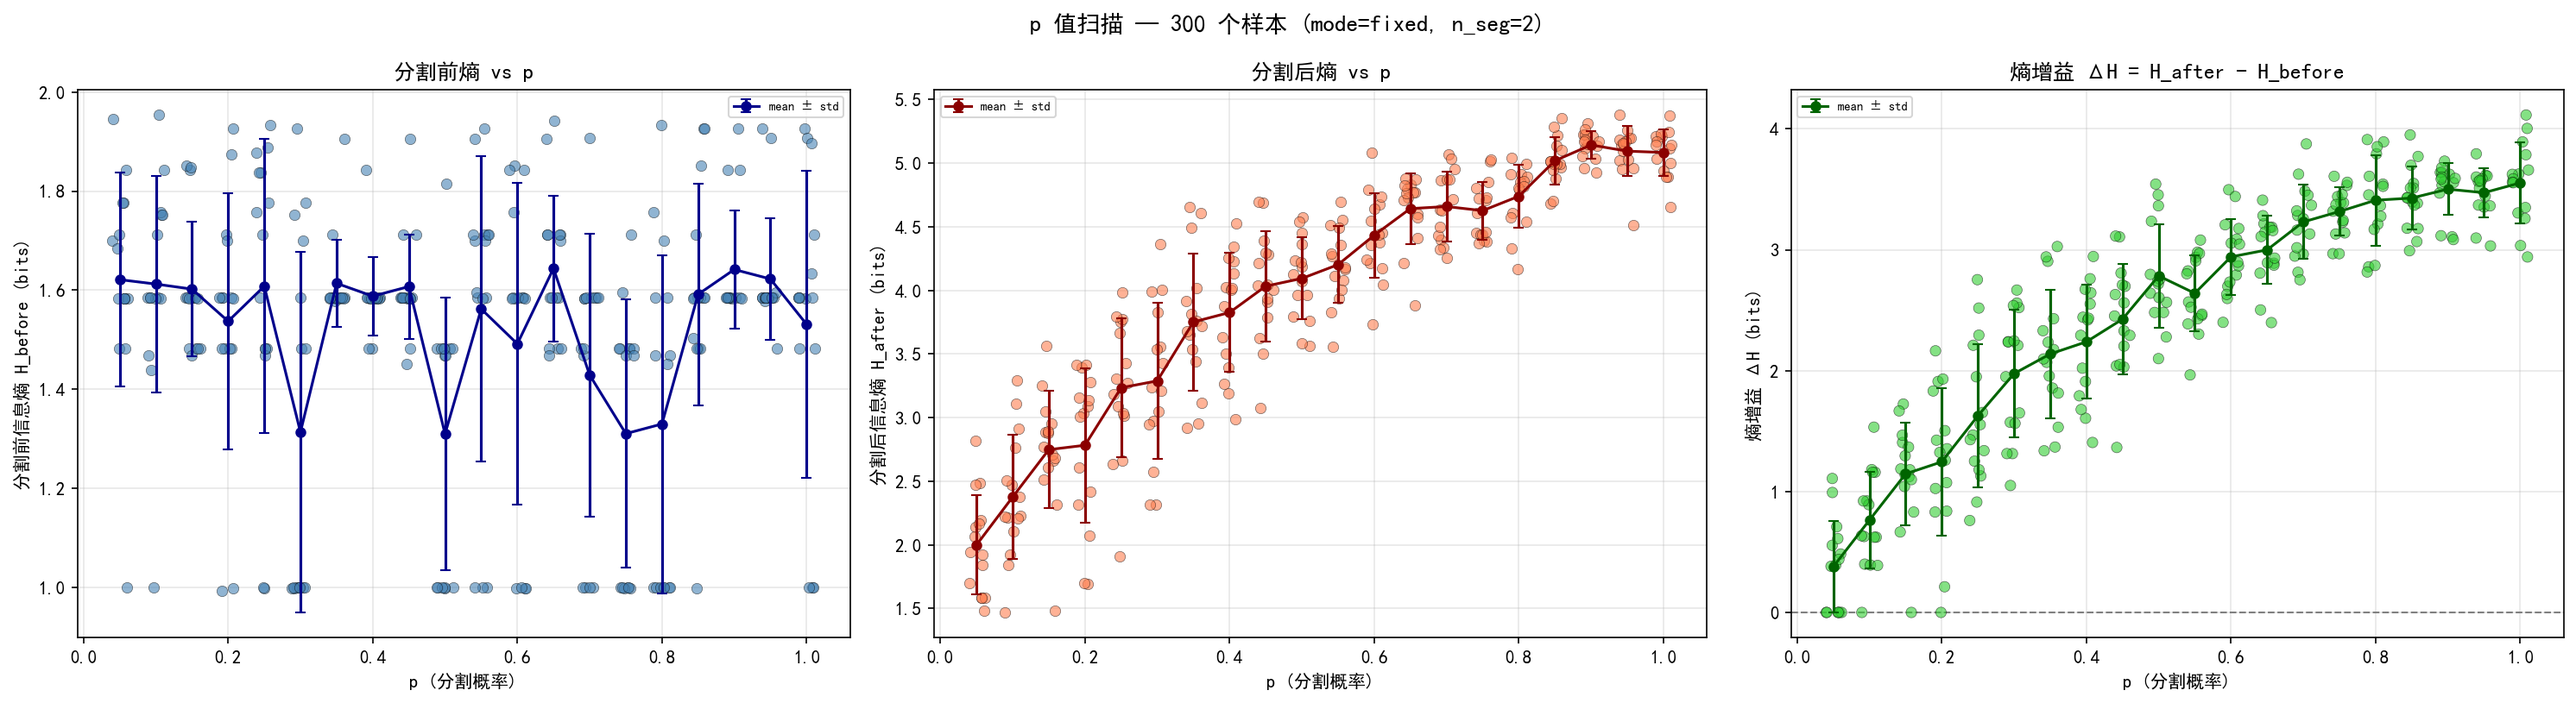
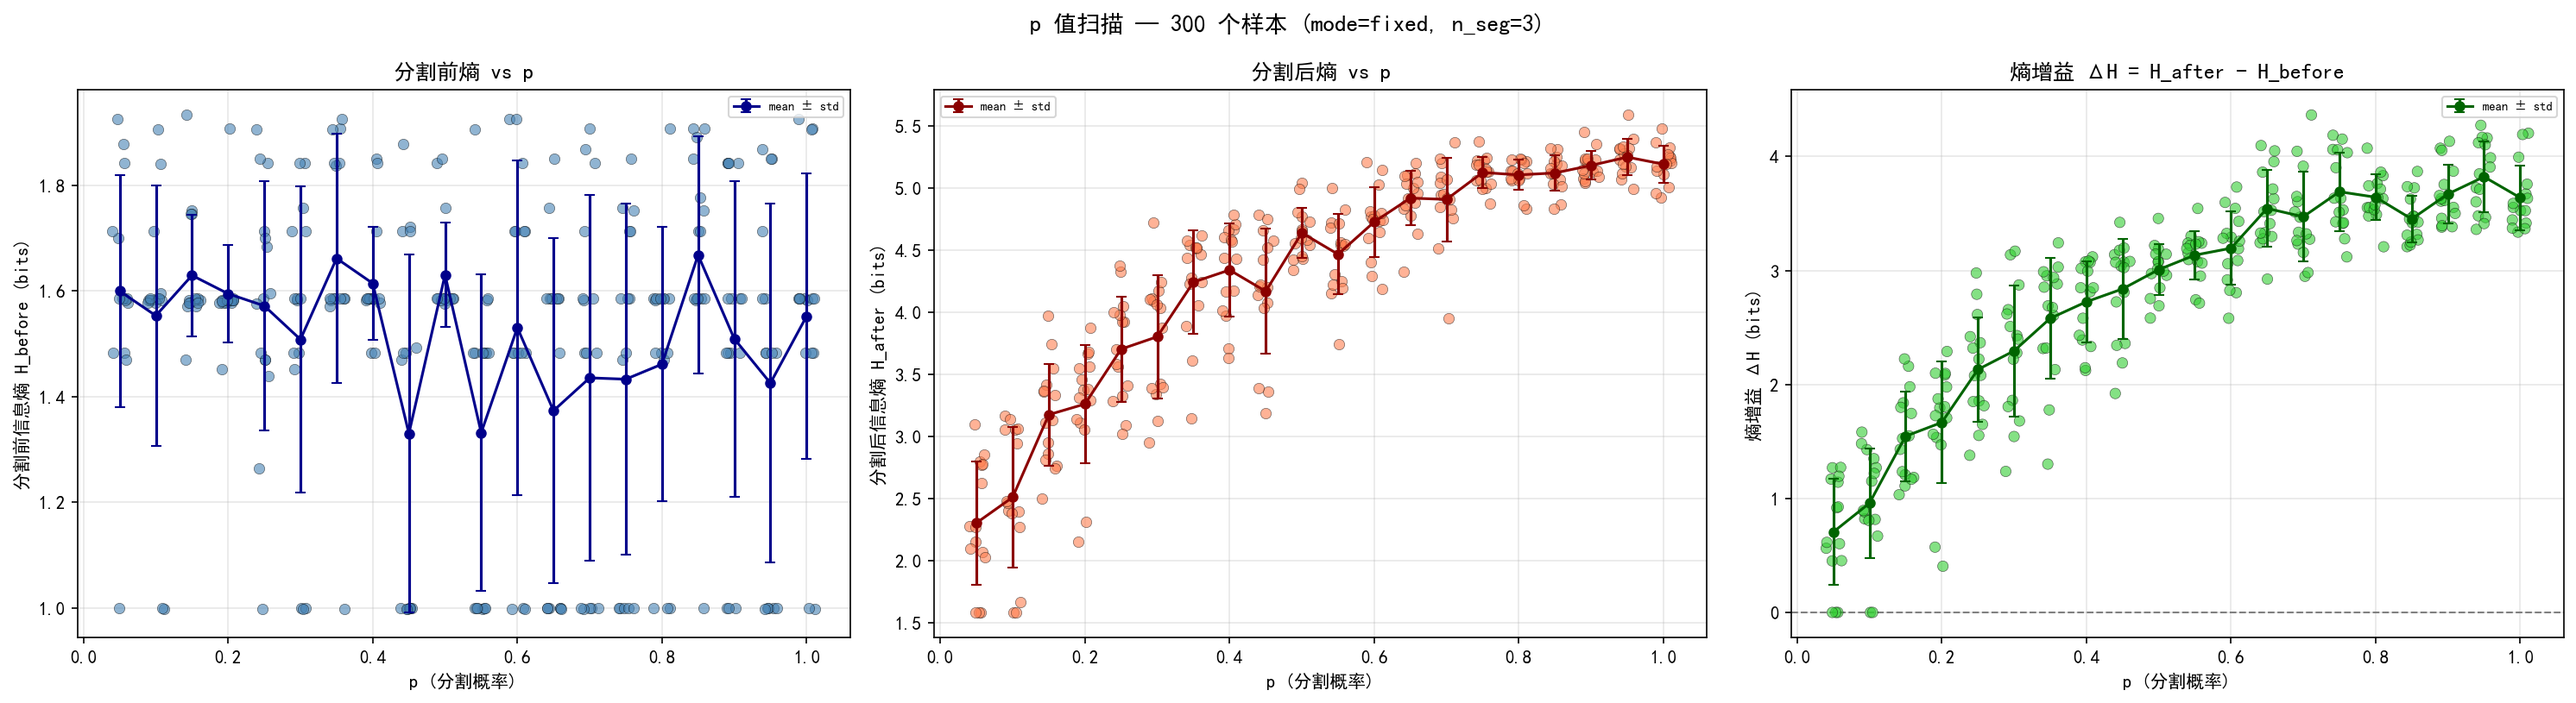
vault backup: 2026-07-05 10:41:22

diff --git a/RL-PacketSlicer-V2/测试/7.分割概率p与信息熵的关系测试记录/2026.7.4.md b/RL-PacketSlicer-V2/测试/7.分割概率p与信息熵的关系测试记录/2026.7.4.md
@@ -1,5 +1,7 @@
 
 
 下图为分割概率p与信息熵的关系，p的步长为0.05，分割份数为2。
-![[attachments/entropy_scan.png]]
+![[attachments/entropy_scan_n2.png]]
 
+下图为分割概率p与信息熵的关系，p的步长为0.05，分割份数为3。
+![[attachments/entropy_scan.png]]
